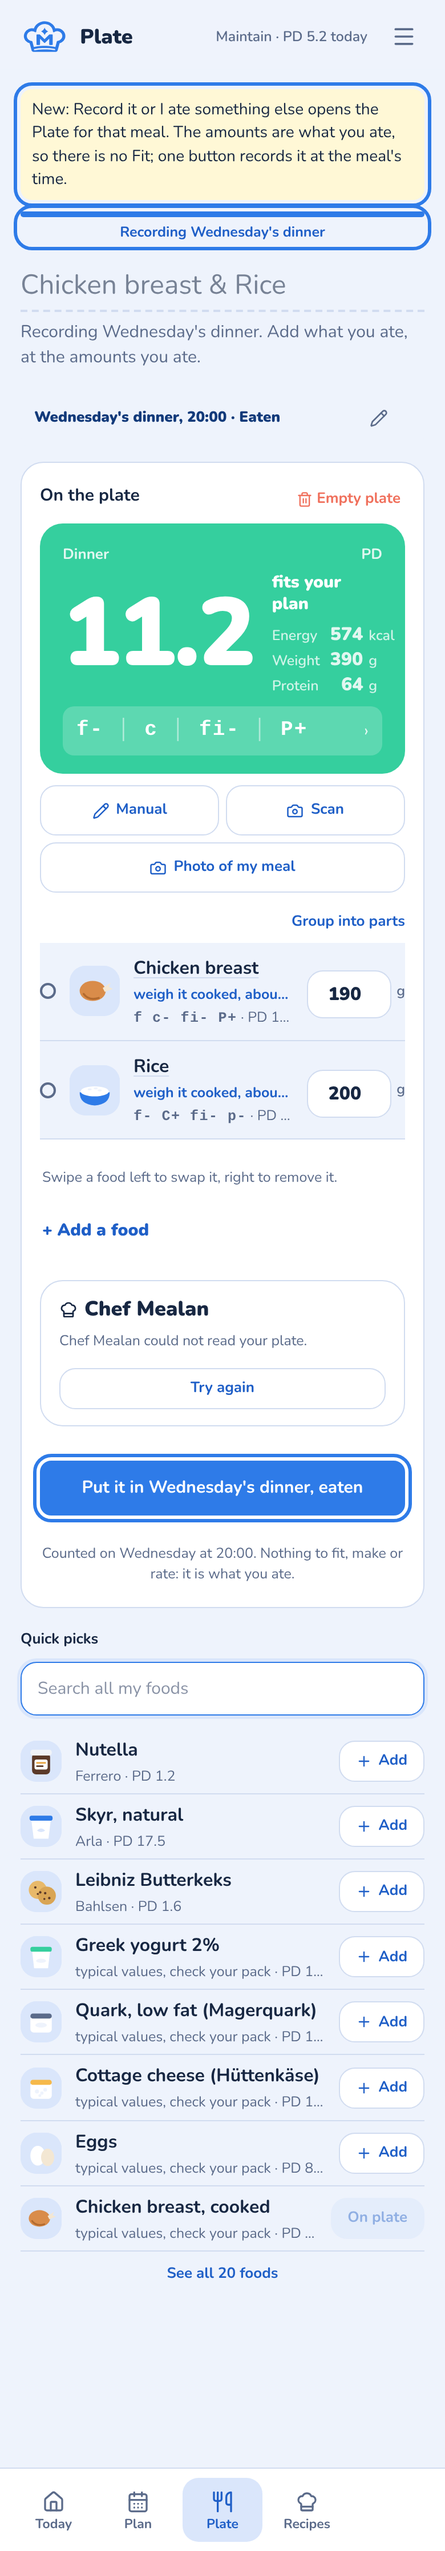
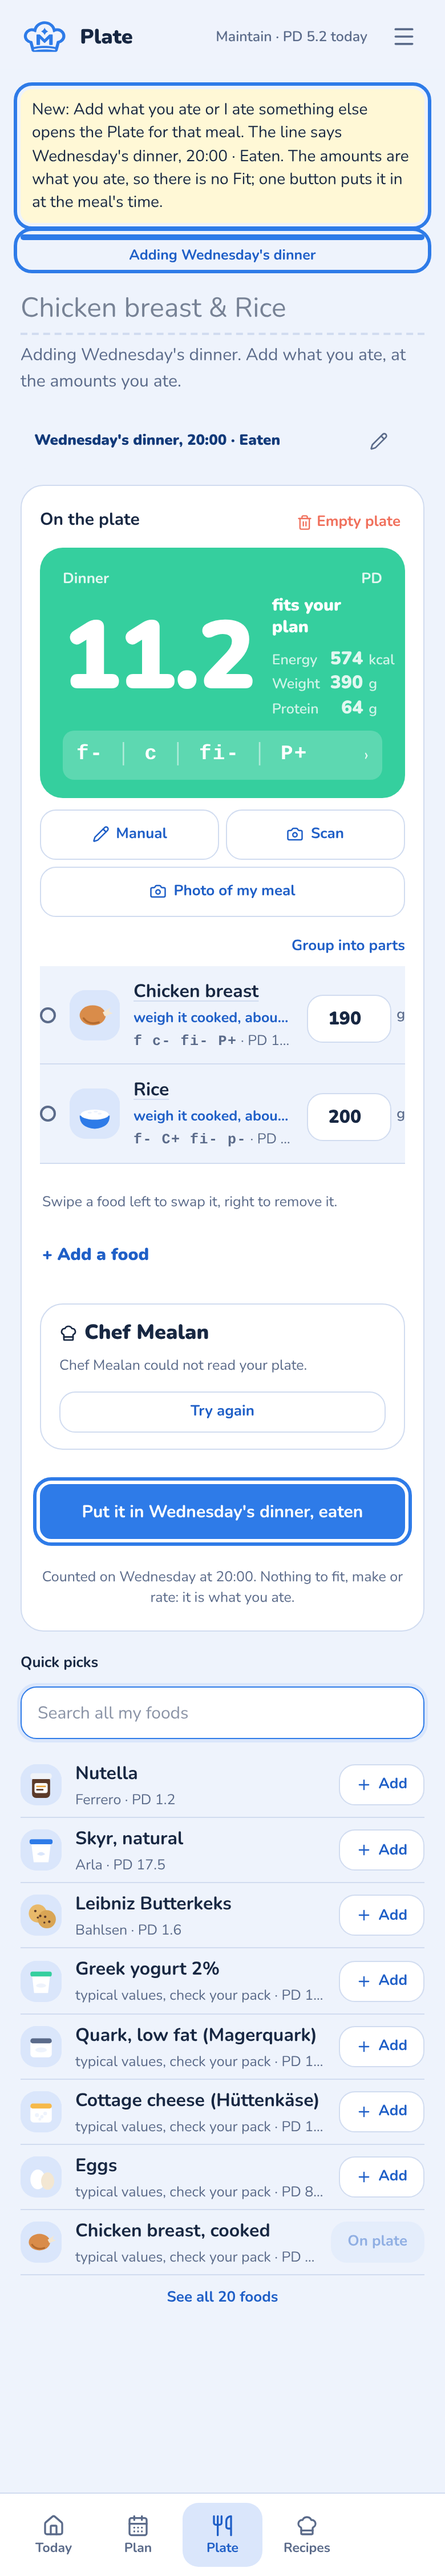
Board Stories101, DT149 version 2: Add what you ate; the line says the day; the day's own numbers
Claude-Session: https://claude.ai/code/session_01BtJPGKTfK5KfbXuNDmfhQP

diff --git a/design/boards/genDT149.py b/design/boards/genDT149.py
@@ -87,8 +87,9 @@ B = Board(); y = 30
 cy = storyCard(B, y, "DT149", "The past records, the future plans, the moment is what you eat", [
   ("Tester 3, UX4 (Coach Milan, 29 October 00:10)", "Planning a meal for later, on paper as it were, still went through the steps that prepare it, and a rating. Planning should be planning."),
   ("Coach Milan, 00:14", "The past is recording what I ate. The future is planning what I will eat. In the moment is what I eat."),
+  ("Coach Milan, 00:56 to 00:58", "Record it is not the best wording: Add what you ate. Which day? sits behind the pencil. The Plate takes the date and the day from Plan, not only the meal."),
   ("Now, checked in 0.2.129", "A recipe planned for Friday, opened from Plan, has Make it as its main button: the Plate to cook now, the steps, then How was it? with a rating. A new meal for Friday from Plan has Put it in Friday's dinner, but the bar says Craft, Make, Feedback and Fit again leads. A day before today shows what was logged and nothing else: Nothing was logged on this day, with no way to record what you ate. The Plate on its own only knows today's meals."),
-  ("The story", "The day decides. Today, around the meal's time, is the moment: Craft, Make, Feedback, as now. A day after today, or a meal later today opened from Plan, is planning: the bar says Planning Friday's dinner, no Make and no Feedback, the one main button is Put it in Friday's dinner, before Fit and after it; a recipe's steps are there to read; nothing asks for a rating. On the day, the meal comes up on Today, where Make it and I ate it live, and a rating if you want one. A day before today is recording: on Plan each meal of that day can be recorded; a planned one is one tap, I ate it, at its time; I ate something else or Record it opens the Plate to record, with no Fit (the amounts are what you ate) and one button, Put it in Wednesday's dinner, eaten. A recipe opened from a later day says Change it on the Plate. The Plate on its own asks Which day?: yesterday records, tomorrow plans."),
+  ("The story", "The day decides. Today, around the meal's time, is the moment: Craft, Make, Feedback, as now. A day after today, or a meal later today opened from Plan, is planning: the bar says Planning Friday's dinner, no Make and no Feedback, the one main button is Put it in Friday's dinner, before Fit and after it; a recipe's steps are there to read; nothing asks for a rating. On the day, the meal comes up on Today, where Make it and I ate it live, and a rating if you want one. A day before today is what you ate: on Plan each meal of that day can be added; a planned one is one tap, I ate it, at its time; I ate something else or Add what you ate opens the Plate, Adding Wednesday's dinner, with no Fit (the amounts are what you ate) and one button, Put it in Wednesday's dinner, eaten. A recipe opened from a later day says Change it on the Plate. The Plate on its own asks Which day?, behind the pencil on its line: yesterday adds what you ate, tomorrow plans. The line always says the day and the mode: Friday's dinner, 20:00 · Planning; Wednesday's dinner, 20:00 · Eaten. The Plate takes the date, the meal, its time and that day's numbers from Plan; the share of the day after Fit is counted against that day too (it used today's)."),
 ])
 h = rowEnd(cy,
   B.screen("DT149a", 0, y, "Now: Friday's recipe says Make it", "r149a", "now", "Make it: cook now, the steps, a rating."),
@@ -99,13 +100,13 @@ h = rowEnd(y + 10,
   B.screen("DT149c", 1, y, "New: planning Friday's dinner", "r149c", "changed", "Put it in Friday's dinner; no Make, no rating."))
 y = h
 h = rowEnd(y + 10,
-  B.screen("DT149d", 0, y, "New: recording yesterday", "r149d", "changed", "I ate it, at its time; Record it for the rest."),
-  B.screen("DT149e", 1, y, "New: recording on the Plate", "r149e", "changed", "No Fit; Put it in Wednesday's dinner, eaten."))
+  B.screen("DT149d", 0, y, "New: recording yesterday", "r149d", "changed", "I ate it, at its time; Add what you ate for the rest."),
+  B.screen("DT149e", 1, y, "New: adding what you ate", "r149e", "changed", "No Fit; Put it in Wednesday's dinner, eaten."))
 y = h
 h = rowEnd(y + 10,
   B.screen("DT149f", 0, y, "New: Which day? on the Plate", "r149f", "changed", "Yesterday records, tomorrow plans."),
   B.screen("DT149g", 1, y, "New: Change it on the Plate", "r149g", "changed", "A recipe for Friday is a plan; Make it comes on Friday."))
 y = h
 board("Stories101.dc.html", "DT149. The past records, the future plans, the moment is what you eat",
-  "29 October 2026 (Tester 3, UX4). Now: 0.2.129, untouched. Drawn for your approval; nothing built.",
+  "29 October 2026 (Tester 3, UX4), version 2. Now: 0.2.129, untouched. Drawn for your approval; nothing built.",
   B, W, y - 100, "Stories100.dc.html")
